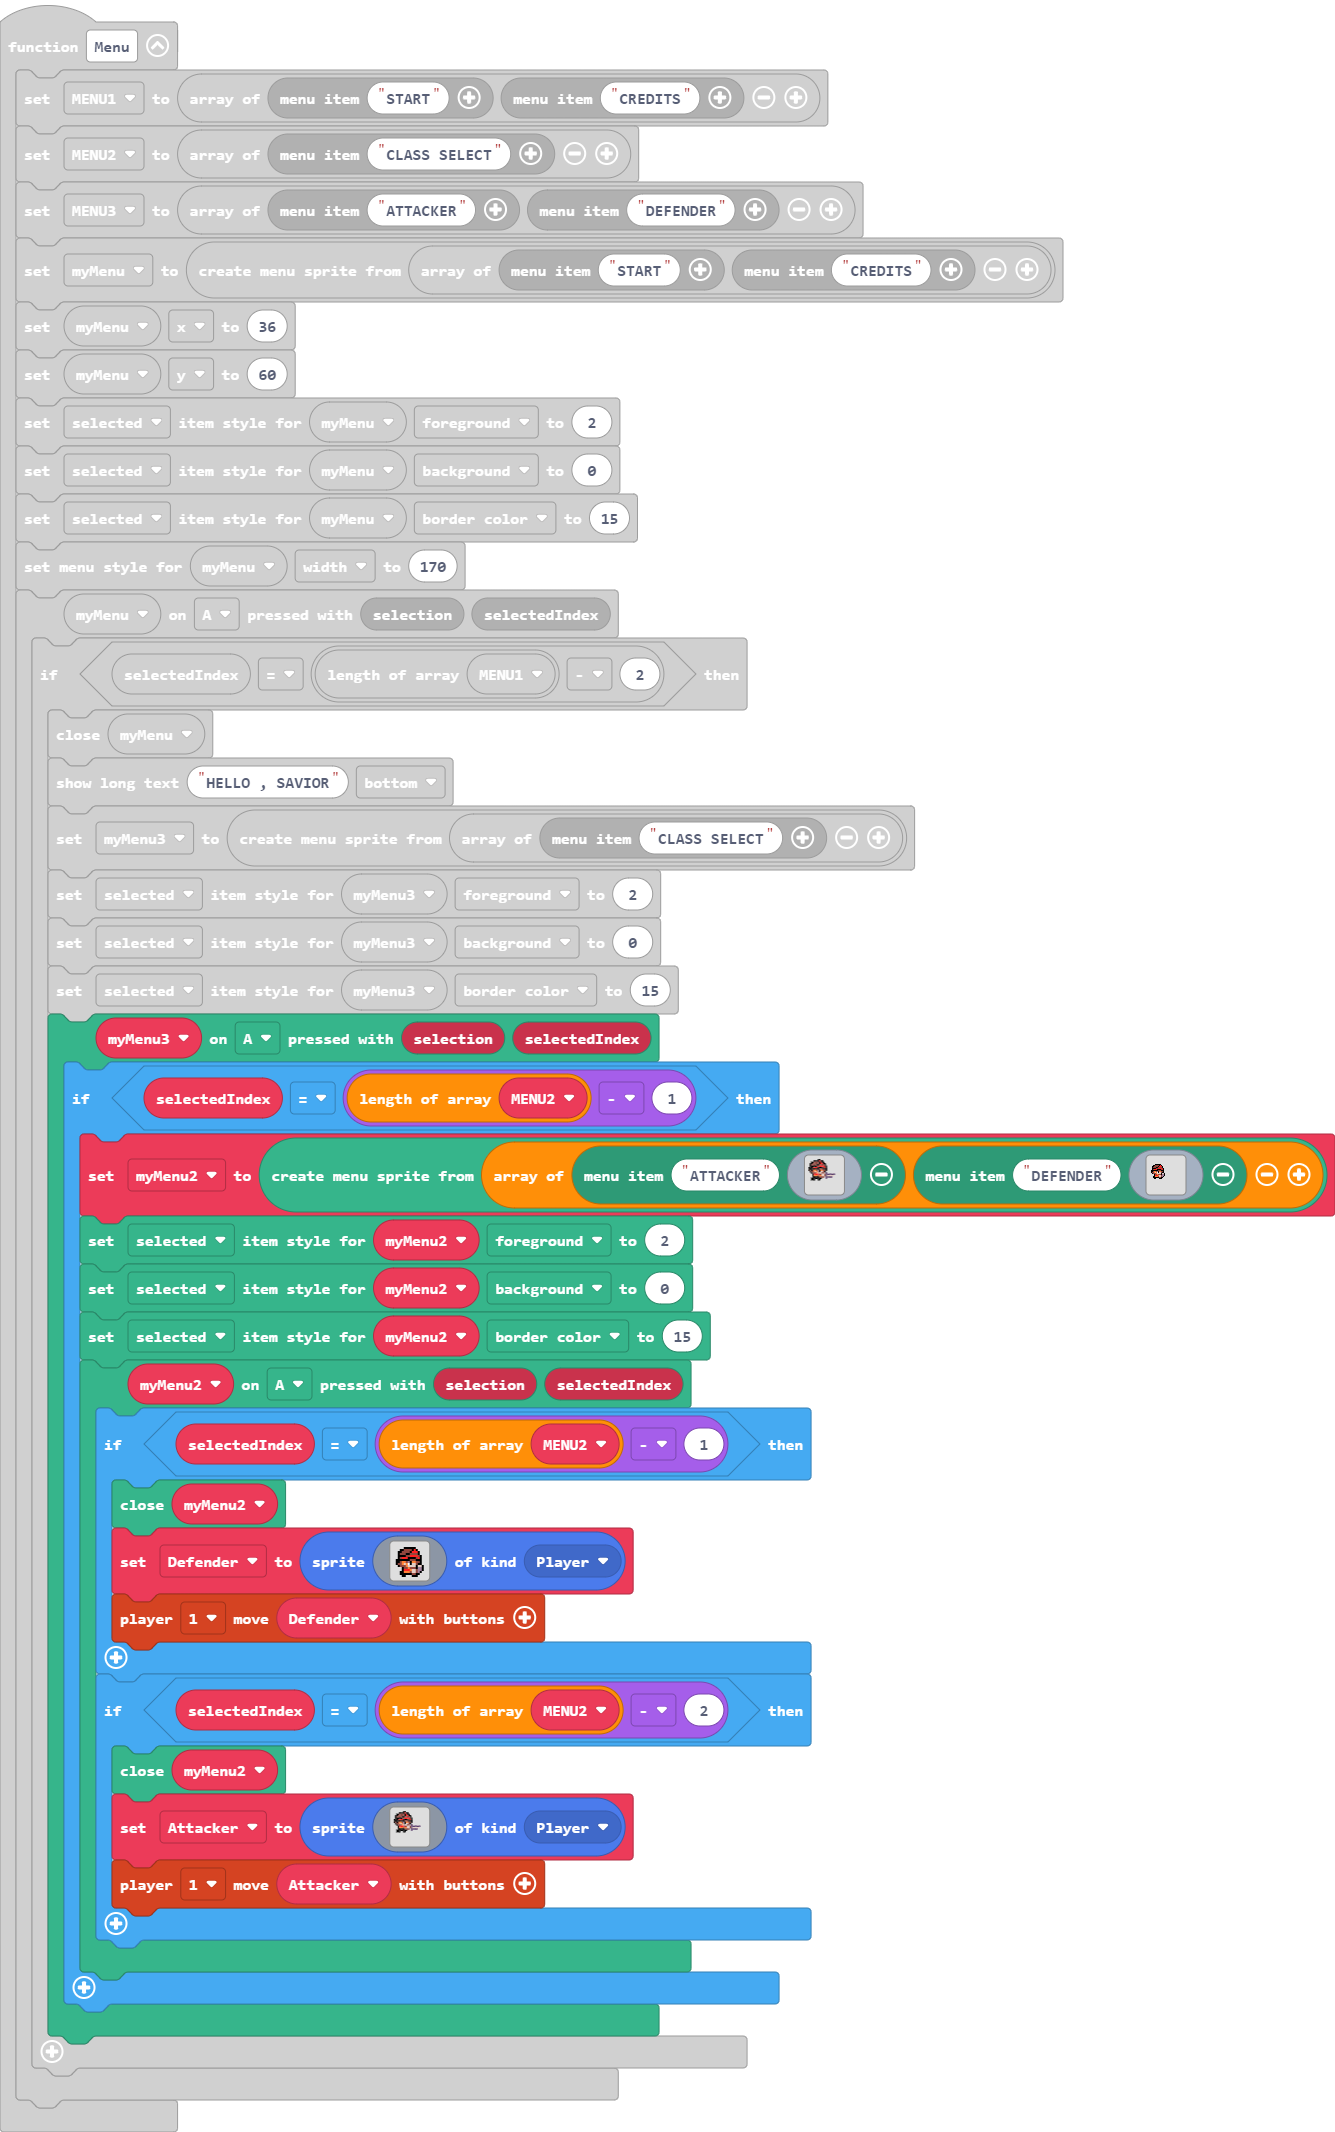
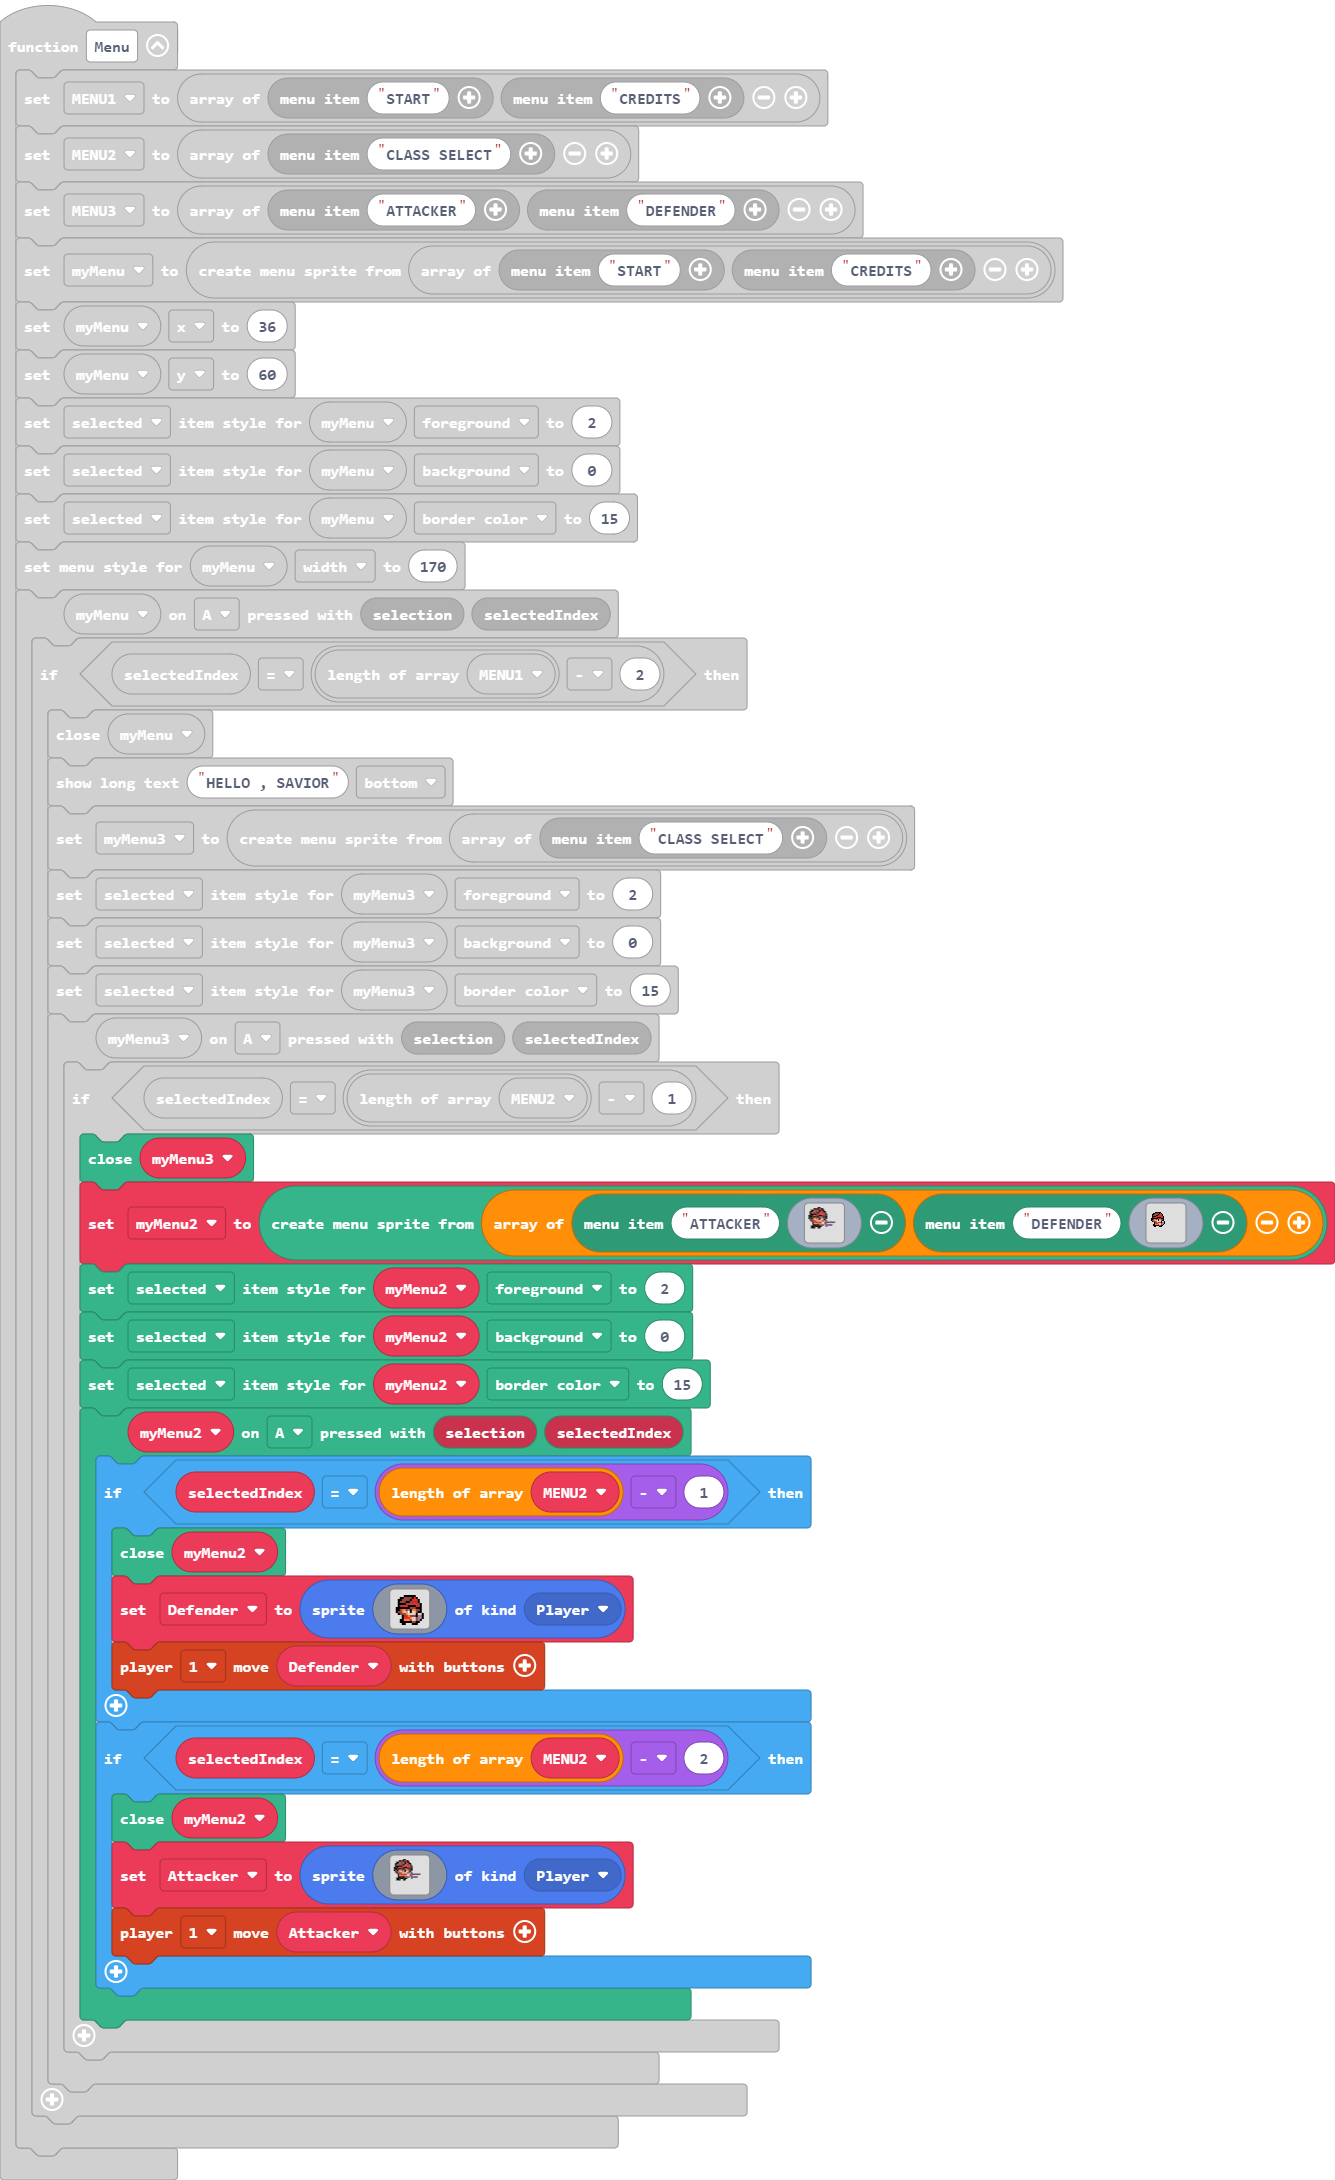
Update main.blocks, main.ts

Changed region(s): [[0.0, 0.031, 1.0, 0.9597]]

diff --git a/main.ts b/main.ts
@@ -19,6 +19,7 @@ function Menu () {
             myMenu3.setStyleProperty(miniMenu.StyleKind.Selected, miniMenu.StyleProperty.BorderColor, 15)
             myMenu3.onButtonPressed(controller.A, function (selection, selectedIndex) {
                 if (selectedIndex == MENU2.length - 1) {
+                    myMenu3.close()
                     myMenu2 = miniMenu.createMenuFromArray([miniMenu.createMenuItem("ATTACKER", img`
                         .......ff...............
                         ....ffff2ff.............
